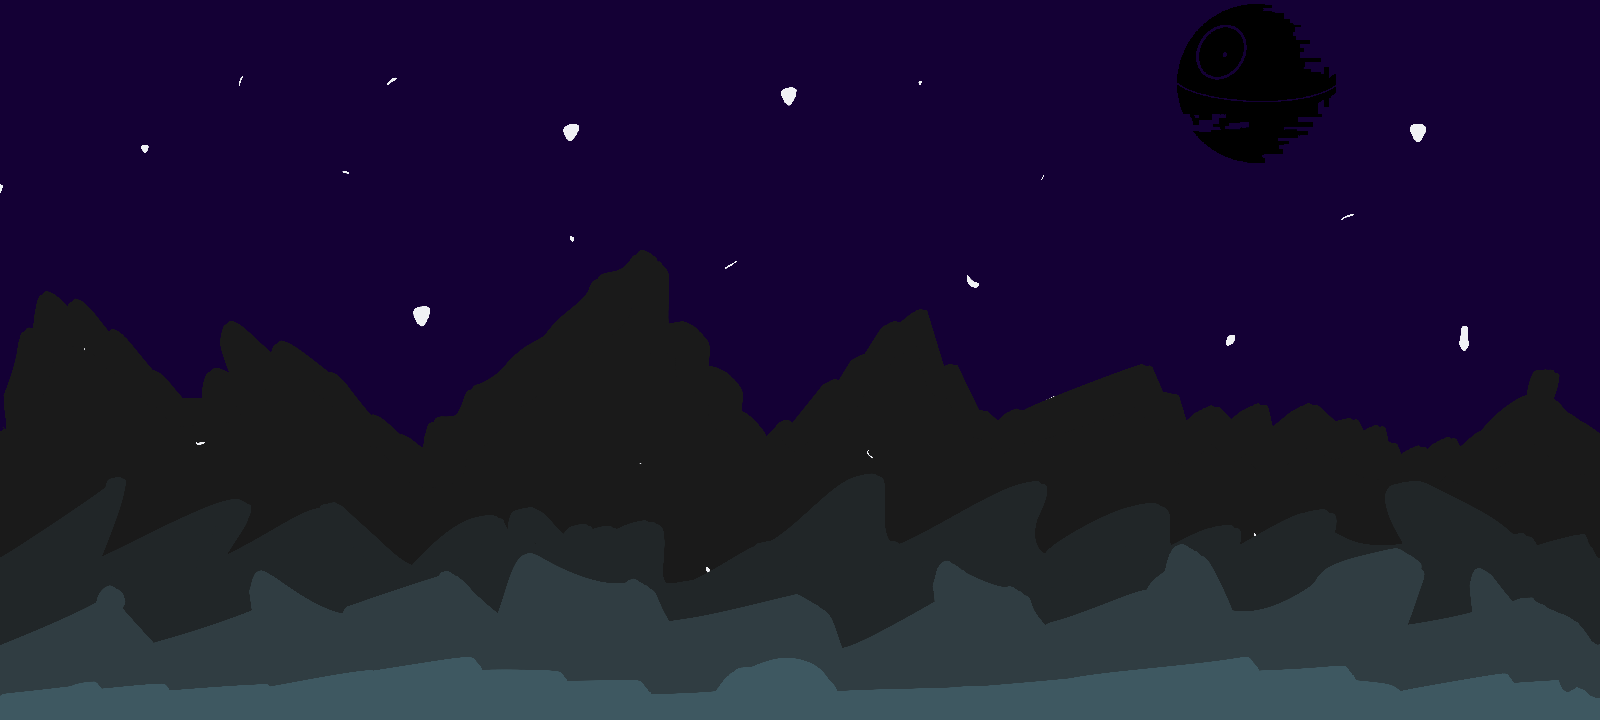
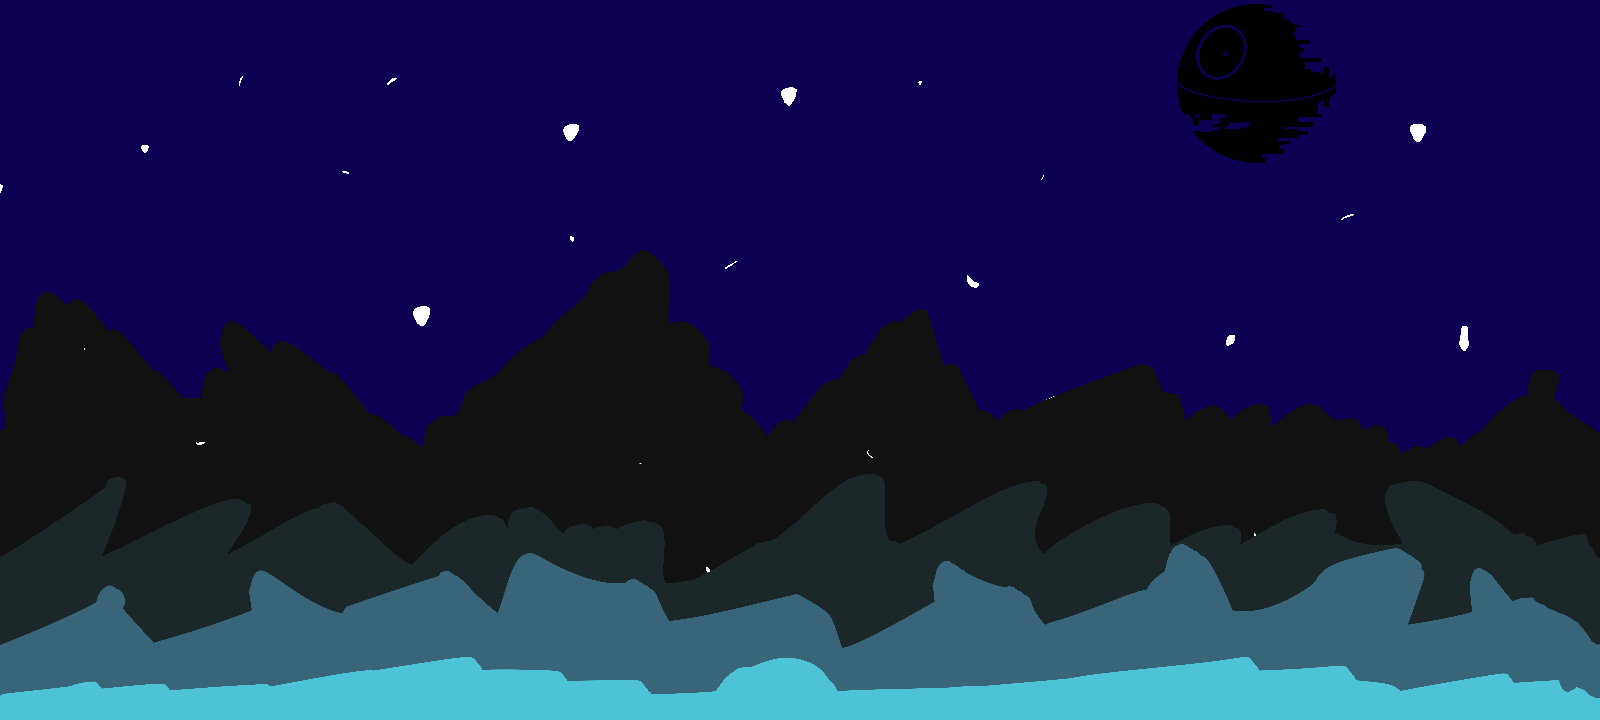
Added 3D background

diff --git a/Galaxy Run.py b/Galaxy Run.py
@@ -1,3 +1,4 @@
+from datetime import datetime
 import pygame
 import os
 from random import randint
@@ -69,18 +70,18 @@ mixer.music.play()
 
 class Background():
     def __init__(self, filename):
-        self.image = pygame.image.load(os.path.join(Settings.path_image, filename)).convert()
+        self.image = pygame.image.load(os.path.join(Settings.path_image, filename)).convert_alpha()
         self.rectimg = self.image.get_rect()
 
         self.bgx = 0
          
-    def scroll_r(self):
-        self.bgx = self.bgx - 5
+    def scroll_r(self, scrollspeed):
+        self.bgx = self.bgx - scrollspeed
         if self.bgx <= -Settings.window_width:
             self.bgx = 0
 
-    def scroll_l(self):
-        self.bgx = self.bgx + 5
+    def scroll_l(self, scrollspeed):
+        self.bgx = self.bgx + scrollspeed
         if self.bgx >= Settings.window_width:
             self.bgx = 0
              
@@ -156,7 +157,7 @@ class Stormbie(pygame.sprite.Sprite):
         if self.rect.left >= posy: #Settings.window_width:
                 self.speed_h = -2
                 self.facing = "L"
-                print("!!1")
+               
 
 
 class Stormtrooper(pygame.sprite.Sprite):
@@ -293,7 +294,6 @@ class Player(pygame.sprite.Sprite):
             if pygame.time.get_ticks() > self.clock_time:
                 self.clock_time = pygame.time.get_ticks() + self.animation_time
                 self.imageindex += 1
-
                 if self.imageindex >= len(self.images):
                     self.imageindex = 0
                 self.image = self.images[self.imageindex]
@@ -312,7 +312,7 @@ class Player(pygame.sprite.Sprite):
             self.sprinting = False
             self.speed = 5
             self.score_muliplier = 0.1
-        print(self.speed)
+        
 
     def pos(self):                              #Gibt die Startposition an 
         self.rect.left = 50
@@ -331,7 +331,7 @@ class Player(pygame.sprite.Sprite):
             if lives > 0:
                 score_value -= self.score_muliplier#0.1    #Spieler wird nach links verschoben
             facing = "L"
-            if self.shield == False and self.flames_on == False and self.sprinting == False:
+            if self.shield == False and self.flames_on == False and self.sprinting == False and jumping == False:
                 self.images.clear()
                 for i in range(7):
                     bitmap = pygame.image.load(os.path.join(
@@ -344,9 +344,6 @@ class Player(pygame.sprite.Sprite):
                     bitmap = pygame.image.load(os.path.join(
                         Settings.path_image, f"player_sprinting_L{i}.png"))
                     self.images.append(bitmap)
-
-
-            
 
 
     def moveR(self):
@@ -370,7 +367,7 @@ class Player(pygame.sprite.Sprite):
                     bitmap = pygame.image.load(os.path.join(
                         Settings.path_image, f"player_sprinting_R{i}.png"))
                     self.images.append(bitmap)
-            print(self.speed)
+            
 
         
 
@@ -416,8 +413,8 @@ class Player(pygame.sprite.Sprite):
         if self.shieldpoints > 0:
             self.shieldpoints = self.shieldpoints - 0.25
             self.shield = True
-            print("Shield is active")
-            print(self.shieldpoints)
+         
+       
             self.images.clear()
             for i in range(16):
                 bitmap = pygame.image.load(os.path.join(
@@ -437,13 +434,17 @@ class Player(pygame.sprite.Sprite):
         global endurance
         Game.invtimer(self)
         
+        self.datetime = datetime.now()
+
+
+
         if self.shieldpoints <= 0:
             if self.playing_shieldlow == False:
                 pygame.mixer.Channel(1).play(pygame.mixer.Sound(os.path.join(Settings.path_image, 'shields_low.mp3')))
                 self.playing_shieldlow = True
             Game.timer(self)
         if self.passed_time >= 420:
-            print(self.passed_time)
+            
             if self.playing_shieldrefill == False:
                 pygame.mixer.Channel(1).play(pygame.mixer.Sound(os.path.join(Settings.path_image, 'refill.mp3')))
                 self.playing_shieldrefill = True
@@ -456,7 +457,7 @@ class Player(pygame.sprite.Sprite):
         if self.usefuel == True:
             self.run_fuel = False
             self.passed_fueltime = 0
-        print(self.usefuel)
+       
         if self.rect.top == 570 and fuel < 200: #and #self.usefuel == False:
         #    self.run_fuel = True
          #   print(self.passed_fueltime)
@@ -474,7 +475,7 @@ class Player(pygame.sprite.Sprite):
                  
   
 
-    def flamethrower(self):
+    def flamethrower_on(self):
             # if self.rect.top == 570:
                 if facing == "R":
                     self.images.clear()
@@ -494,16 +495,21 @@ class Player(pygame.sprite.Sprite):
                 self.rect.left = posy
                 self.rect.top = posx
                 self.flames_on = True
+    
+    def flamethrower_off(self):
+        self.flames_on = False
                 
-                # flamethrower_is_active = True
-                
-           
+       
         
     def jump(self):
         global jumping, endurance
         if jumping == True:
-            self.images.clear()
-            self.images.append(pygame.image.load(os.path.join(Settings.path_image,"jump.png")))
+            if self.flames_on == False:
+                self.images.clear()
+                if facing == "R":
+                    self.images.append(pygame.image.load(os.path.join(Settings.path_image,"jumpR.png")))
+                if facing == "L":
+                    self.images.append(pygame.image.load(os.path.join(Settings.path_image,"jumpL.png")))
             self.rect.top += self.velocity[self.velocity_index]
             self.velocity_index += 1
             if self.velocity_index >= len(self.velocity) -1:
@@ -718,14 +724,18 @@ class tkprojectile(pygame.sprite.Sprite):
 
 
                 
-class Game(object):
+class Game(object): 
     def __init__(self) -> None:
         super().__init__()
         pygame.init()
         self.screen = pygame.display.set_mode((Settings.window_width, Settings.window_height))
         pygame.display.set_caption(Settings.title)
         self.clock = pygame.time.Clock()
-        self.background = Background("background.png")
+        self.background0 = Background("0.png")
+        self.background1 = Background("1.png")
+        self.background2 = Background("2.png")
+        self.background3 = Background("3.png")
+        self.background4 = Background("4.png")
         self.stormtroopers = pygame.sprite.Group()
         self.player = Player("player_standing_R0.png")
         self.tkprojectiles = pygame.sprite.Group()
@@ -734,9 +744,11 @@ class Game(object):
         self.healthpacks= pygame.sprite.Group()
         self.stormbies = pygame.sprite.Group()
         self.flames = pygame.sprite.Group()
+        self.flames_on = False
         self.sector = 0
         self.running = True
         self.length = 75
+        self.game_started = False
 
     def sector_up(self):
         global score_value
@@ -924,22 +936,21 @@ class Game(object):
             if fuel >= 5:
                     fuel = fuel - 5
                     self.usefuel = True
-                    Player.flamethrower(self.player)
+                    Player.flamethrower_on(self.player)
                     if self.flames_on == False:
                         self.flames.add(Flame("bullet0.png"))
                         self.flames_on = True
 
         else:
             self.flames_on = False
+            self.player.flamethrower_off()
             self.usefuel = False #work in progress
-            print(self.usefuel)
-            print(self.flames_on)
-            self.player.flames_on = False
+     
+            self.flames_on = False
             for f in self.flames:
                 f.kill()
             self.player.images.clear()
             if facing == "R":
-
                 for i in range(2):
                     bitmap = pygame.image.load(os.path.join(
                         Settings.path_image, f"player_standing_R{i}.png"))
@@ -986,10 +997,19 @@ class Game(object):
             keys = pygame.key.get_pressed()
             if keys[pygame.K_a]: 
                 self.player.moveL()
-                self.background.scroll_l()
+                self.background0.scroll_l(5)
+                self.background1.scroll_l(4)
+                self.background2.scroll_l(3)
+                self.background3.scroll_l(2)
+                self.background4.scroll_l(1)
+
             if keys[pygame.K_d]:
                 self.player.moveR()
-                self.background.scroll_r()
+                self.background0.scroll_r(5)
+                self.background1.scroll_r(4)
+                self.background2.scroll_r(3)
+                self.background3.scroll_r(2)
+                self.background4.scroll_r(1)
             if keys[pygame.K_SPACE]:
                 jumping = True
             if keys[pygame.K_LSHIFT]:
@@ -997,8 +1017,6 @@ class Game(object):
                 self.player.sprint()
             else:
                 self.player.walk()
-
-               
             if keys[pygame.K_w]:
                 self.player.moveUp()
             if keys[pygame.K_r]:
@@ -1041,7 +1059,7 @@ class Game(object):
             print(timeformat, end='\r')
             time.sleep(1)
             time_sec -= 1
-        print("stop")
+   
 
  
 
@@ -1050,26 +1068,26 @@ class Game(object):
         for s in self.stormtroopers:
             if pygame.sprite.spritecollide(s, self.projectiles, True):
                 s.health = s.health - 25
-                if s.health ==0:
+                if s.health <=0:
                     s.kill()
                     self.reward()
     
             if pygame.sprite.spritecollide(s, self.flames, False):
                 s.health = s.health - 5
-                if s.health ==0:
+                if s.health <=0:
                     s.kill()
                     self.reward()
         
         for z in self.stormbies:
             if pygame.sprite.spritecollide(z, self.projectiles, True):
                 z.health = z.health - 25
-                if z.health ==0:
+                if z.health <=0:
                     z.kill()
                     self.reward()
 
             if pygame.sprite.spritecollide(z, self.flames, False):
                 z.health = z.health - 10
-                if z.health ==0:
+                if z.health <=0:
                     z.kill()
                     self.reward()
 
@@ -1095,7 +1113,7 @@ class Game(object):
 
             
     def reward(self):
-        dice6 = randint(1, 2)
+        dice6 = randint(1, 6)
                    
         if dice6 == 1:
             self.ammocrates.add(Pickups("ammocrate.png"))
@@ -1105,7 +1123,7 @@ class Game(object):
         elif dice6 == 3:
             pass
             #self.fuelpacks.add(Pickups("fuelpack.png"))
-            
+
 
     def pickup(self):
         if pygame.sprite.spritecollide(self.player, self.ammocrates, True):
@@ -1116,25 +1134,55 @@ class Game(object):
                 self.player.health = self.player.health + 1
        
 
+    def draw_start(self):
+        #self.screen.fill(BLACK)
+        
+        Titlefont = pygame.font.Font(None, 72)
+        self.background4.draw(self.screen)
+        self.background3.draw(self.screen)
+        self.background2.draw(self.screen)
+        self.background1.draw(self.screen)
+        self.background0.draw(self.screen)
+        Title = Titlefont.render("Galaxy Run", 1, (WHITE))
+        self.screen.blit(Title, (Settings.window_width // 2 - 150, Settings.window_height // 2 - 100))
+        pygame.draw.rect(self.screen, (0,0,255), pygame.Rect(Settings.window_width // 2 - 100,Settings.window_height // 2, 200, 100),)
+        self.background0.scroll_r(5)
+        self.background1.scroll_r(4)
+        self.background2.scroll_r(3)
+        self.background3.scroll_r(2)
+        self.background4.scroll_r(1)
 
+        pygame.display.flip()
 
-
-    def get_statement(self):
-        pass
+    def event_start(self):
+        mouse = pygame.mouse.get_pos()
+        for event in pygame.event.get():
+            if event.type == pygame.KEYDOWN:
+                if event.key == pygame.K_ESCAPE:    
+                        self.running = False
+                elif event.type == pygame.QUIT:         
+                    self.running = False
+            if event.type == pygame.MOUSEBUTTONDOWN:
+                if Settings.window_width // 2 - 100 <= mouse[0] <= Settings.window_width // 2 + 100 and Settings.window_height // 2 <= mouse[1] <= Settings.window_height // 2 + 100:
+                    self.game_started = True
+                    print("Starting...")
 
 
     def run(self):
         while self.running:
             self.clock.tick(60)                         
-            self.watch_for_events()
-            self.update()
-            self.draw()
+            if self.game_started == True:
+                self.watch_for_events()
+                self.update()
+                self.draw()
+            else:
+                self.draw_start()
+                self.event_start()
         pygame.quit()       
 
     def watch_for_events(self):
         for event in pygame.event.get():
             if event.type == pygame.MOUSEBUTTONDOWN:
-
                 self.midclick()
             if event.type == pygame.KEYDOWN:
                 if event.key == pygame.K_ESCAPE:    
@@ -1175,18 +1223,15 @@ class Game(object):
         self.sector_up()
         self.shoot_dice()
         
-        self.get_statement()
- 
-        
-        
-        
-        
-
 
         
 
     def draw(self):
-        self.background.draw(self.screen)
+        self.background4.draw(self.screen)
+        self.background3.draw(self.screen)
+        self.background2.draw(self.screen)
+        self.background1.draw(self.screen)
+        self.background0.draw(self.screen)
         self.stormtroopers.draw(self.screen)
         self.stormbies.draw(self.screen)
         self.player.draw(self.screen)
